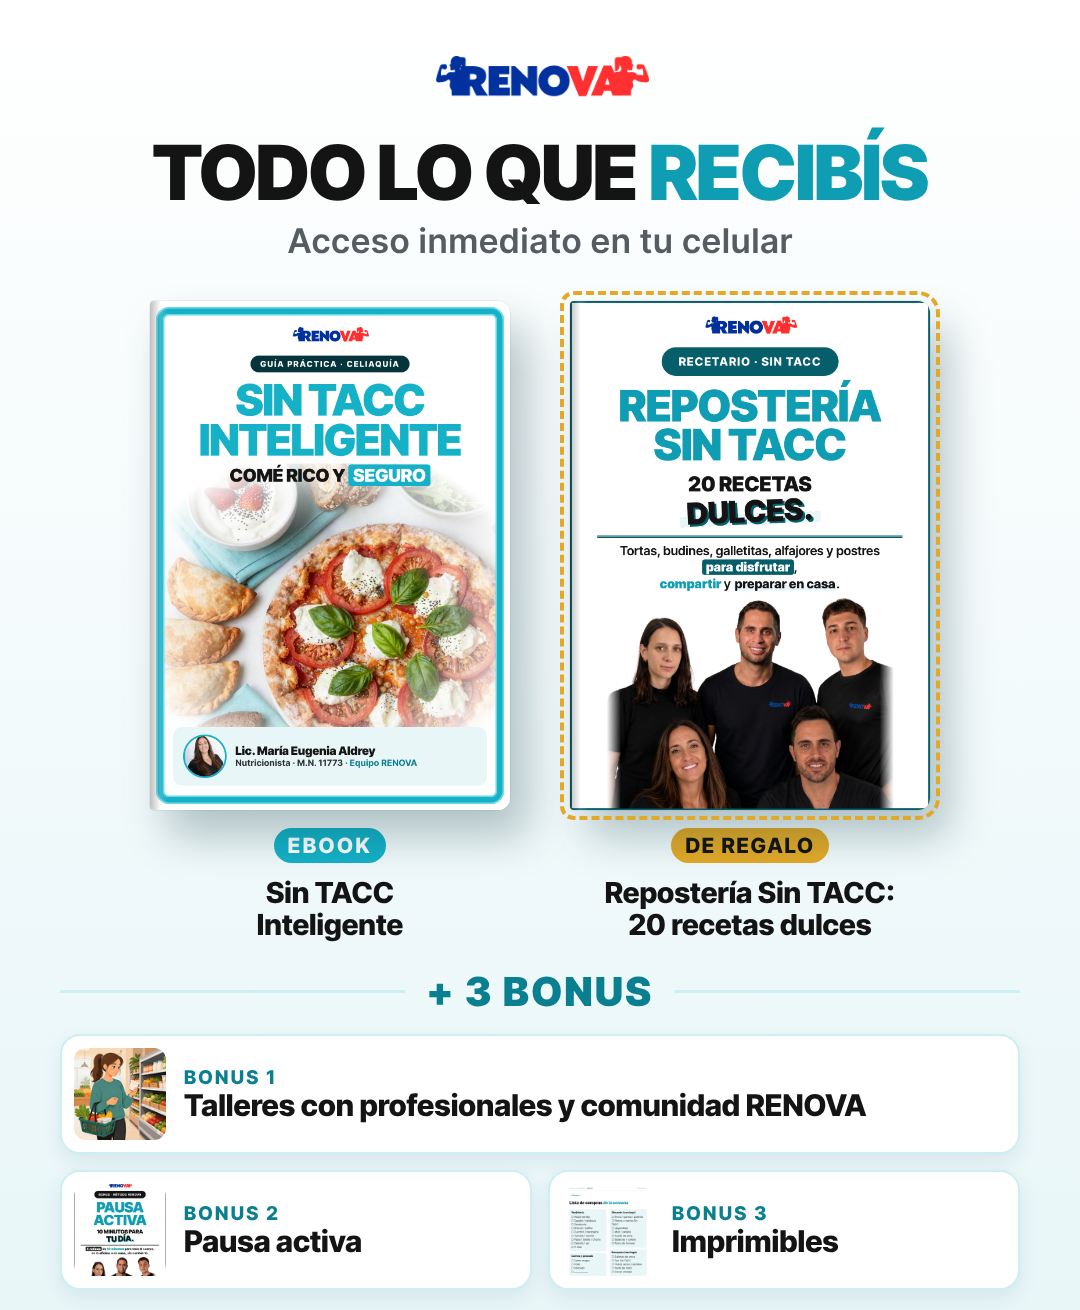
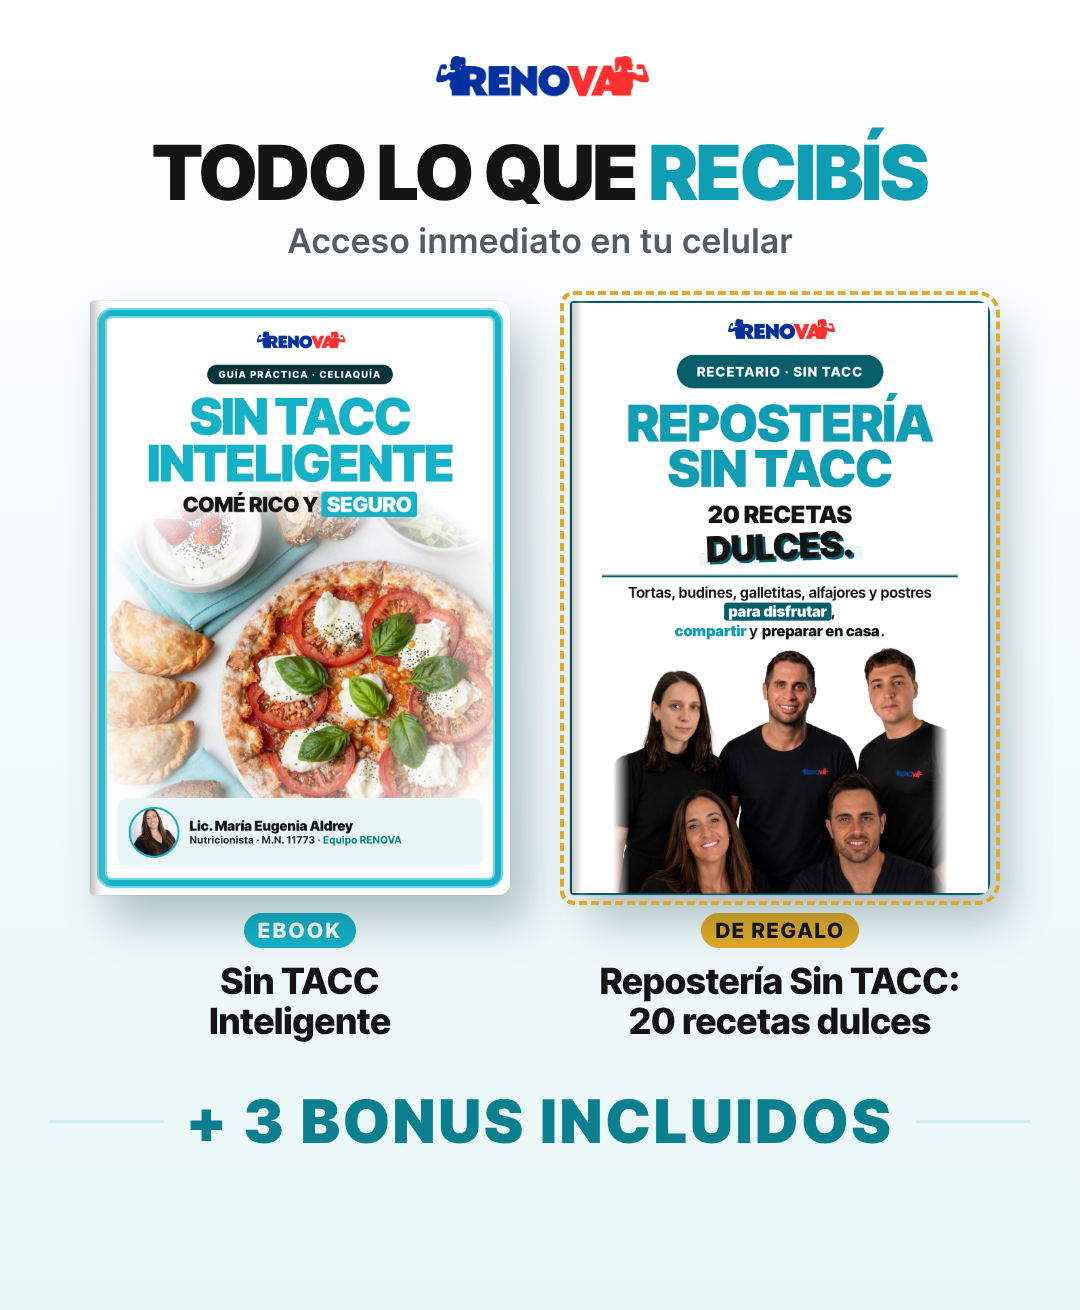
Sin TACC checkout: solo '+ 3 bonus incluidos', letra más grande
Claude-Session: https://claude.ai/code/session_016d9STMTFsB819XAn27rxwK

diff --git a/fuentes/landing/mockups/sintacc_checkout.html b/fuentes/landing/mockups/sintacc_checkout.html
@@ -100,20 +100,20 @@ body{width:1080px;height:1310px;overflow:hidden;font-family:InterW,sans-serif;co
 h1{font:900 76px/1 InterTightW,sans-serif;letter-spacing:-.02em;text-transform:uppercase;margin-top:22px}
 h1 b{color:var(--rnv-turquesa-titulo)}
 .sub{font:600 34px InterW,sans-serif;color:var(--rnv-gris);margin-top:10px}
-.libros{display:flex;justify-content:center;align-items:flex-start;gap:60px;margin-top:40px;padding:0 150px}
+.libros{display:flex;justify-content:center;align-items:flex-start;gap:60px;margin-top:40px;padding:0 90px}
 .lib{text-align:center;flex:1;min-width:0}
 .tapa{border-radius:4px 12px 12px 4px;overflow:hidden;background:#fff;aspect-ratio:210/297;position:relative;
  box-shadow:18px 26px 44px rgba(6,52,59,.28),0 0 0 1px rgba(0,0,0,.05)}
 .tapa img{width:100%;height:100%;object-fit:cover;display:block}
 .tapa::after{content:"";position:absolute;inset:0 auto 0 0;width:5%;background:linear-gradient(90deg,rgba(0,0,0,.25),rgba(255,255,255,.15) 60%,transparent)}
-.lib b{display:block;font:800 29px/1.1 InterTightW,sans-serif;margin-top:14px}
+.lib b{display:block;font:800 36px/1.1 InterTightW,sans-serif;margin-top:14px}
 .lib.op span{background:var(--rnv-oro);color:var(--rnv-tinta);letter-spacing:.08em;font-size:21px}
 .lib.op .tapa{outline:4px dashed var(--rnv-oro);outline-offset:6px}
 .lib span{display:inline-block;margin-top:18px;font:800 21px InterTightW,sans-serif;letter-spacing:.12em;color:#fff;
  background:var(--rnv-turquesa);padding:5px 14px;border-radius:999px}
-.bh{display:flex;align-items:center;gap:22px;margin:26px 60px 18px}
+.bh{display:flex;align-items:center;gap:22px;margin:44px 50px 0}
 .bh i{flex:1;height:3px;background:var(--rnv-turquesa-borde)}
-.bh b{font:900 40px InterTightW,sans-serif;letter-spacing:.06em;text-transform:uppercase;color:var(--rnv-turquesa-oscuro)}
+.bh b{white-space:nowrap;font:900 60px InterTightW,sans-serif;letter-spacing:.06em;text-transform:uppercase;color:var(--rnv-turquesa-oscuro)}
 .bon{display:grid;grid-template-columns:1fr 1fr;gap:16px;margin:0 60px}
 .bo{display:flex;align-items:center;gap:18px;background:#fff;border:2px solid var(--rnv-turquesa-borde);border-radius:20px;padding:12px 18px 12px 12px;
  box-shadow:0 8px 20px rgba(6,52,59,.08)}
@@ -124,5 +124,4 @@ h1 b{color:var(--rnv-turquesa-titulo)}
 </style>
 <div class="top"><img src="../img/logo.png"><h1>Todo lo que <b>recibís</b></h1><p class="sub">Acceso inmediato en tu celular</p></div>
 <div class="libros"><div class="lib"><div class="tapa"><img src="pack/tapa_sintacc_comida.png"></div><span>EBOOK</span><b>Sin TACC<br>Inteligente</b></div><div class="lib op"><div class="tapa"><img src="pack/tapa_reposteria.png"></div><span>DE REGALO</span><b>Repostería Sin TACC:<br>20 recetas dulces</b></div></div>
-<div class="bh"><i></i><b>+ 3 bonus</b><i></i></div>
-<div class="bon"><div class="bo"><img src="../img/taller_super.jpg" style=""><div><i>BONUS 1</i><b>Talleres con profesionales y comunidad RENOVA</b></div></div><div class="bo"><img src="pack/tapa_pausa.jpg" style="object-position:50% 12%"><div><i>BONUS 2</i><b>Pausa activa</b></div></div><div class="bo"><img src="pack/st_imprimible.png" style="object-position:50% 0"><div><i>BONUS 3</i><b>Imprimibles</b></div></div></div>
+<div class="bh"><i></i><b>+ 3 bonus incluidos</b><i></i></div>

diff --git a/fuentes/landing/mockups/sintacc_checkout.py b/fuentes/landing/mockups/sintacc_checkout.py
@@ -21,20 +21,20 @@ body{width:1080px;height:1310px;overflow:hidden;font-family:InterW,sans-serif;co
 h1{font:900 76px/1 InterTightW,sans-serif;letter-spacing:-.02em;text-transform:uppercase;margin-top:22px}
 h1 b{color:var(--rnv-turquesa-titulo)}
 .sub{font:600 34px InterW,sans-serif;color:var(--rnv-gris);margin-top:10px}
-.libros{display:flex;justify-content:center;align-items:flex-start;gap:60px;margin-top:40px;padding:0 150px}
+.libros{display:flex;justify-content:center;align-items:flex-start;gap:60px;margin-top:40px;padding:0 90px}
 .lib{text-align:center;flex:1;min-width:0}
 .tapa{border-radius:4px 12px 12px 4px;overflow:hidden;background:#fff;aspect-ratio:210/297;position:relative;
  box-shadow:18px 26px 44px rgba(6,52,59,.28),0 0 0 1px rgba(0,0,0,.05)}
 .tapa img{width:100%;height:100%;object-fit:cover;display:block}
 .tapa::after{content:"";position:absolute;inset:0 auto 0 0;width:5%;background:linear-gradient(90deg,rgba(0,0,0,.25),rgba(255,255,255,.15) 60%,transparent)}
-.lib b{display:block;font:800 29px/1.1 InterTightW,sans-serif;margin-top:14px}
+.lib b{display:block;font:800 36px/1.1 InterTightW,sans-serif;margin-top:14px}
 .lib.op span{background:var(--rnv-oro);color:var(--rnv-tinta);letter-spacing:.08em;font-size:21px}
 .lib.op .tapa{outline:4px dashed var(--rnv-oro);outline-offset:6px}
 .lib span{display:inline-block;margin-top:18px;font:800 21px InterTightW,sans-serif;letter-spacing:.12em;color:#fff;
  background:var(--rnv-turquesa);padding:5px 14px;border-radius:999px}
-.bh{display:flex;align-items:center;gap:22px;margin:26px 60px 18px}
+.bh{display:flex;align-items:center;gap:22px;margin:44px 50px 0}
 .bh i{flex:1;height:3px;background:var(--rnv-turquesa-borde)}
-.bh b{font:900 40px InterTightW,sans-serif;letter-spacing:.06em;text-transform:uppercase;color:var(--rnv-turquesa-oscuro)}
+.bh b{white-space:nowrap;font:900 60px InterTightW,sans-serif;letter-spacing:.06em;text-transform:uppercase;color:var(--rnv-turquesa-oscuro)}
 .bon{display:grid;grid-template-columns:1fr 1fr;gap:16px;margin:0 60px}
 .bo{display:flex;align-items:center;gap:18px;background:#fff;border:2px solid var(--rnv-turquesa-borde);border-radius:20px;padding:12px 18px 12px 12px;
  box-shadow:0 8px 20px rgba(6,52,59,.08)}
@@ -57,7 +57,7 @@ def bono(i, src, t, pos):
 html = f"""<!doctype html><meta charset="utf-8"><style>{CSS}</style>
 <div class="top"><img src="{I}logo.png"><h1>Todo lo que <b>recibís</b></h1><p class="sub">Acceso inmediato en tu celular</p></div>
 <div class="libros">{''.join(libro(i, f, t, o) for i, (f, t, o) in enumerate(LIBROS))}</div>
-<div class="bh"><i></i><b>+ 3 bonus</b><i></i></div>
-<div class="bon">{''.join(bono(i, s, t, p) for i, (s, t, p) in enumerate(BONUS))}</div>"""
+<div class="bh"><i></i><b>+ 3 bonus incluidos</b><i></i></div>
+"""
 Path(__file__).with_name("sintacc_checkout.html").write_text(html, encoding="utf-8")
 print("ok")
